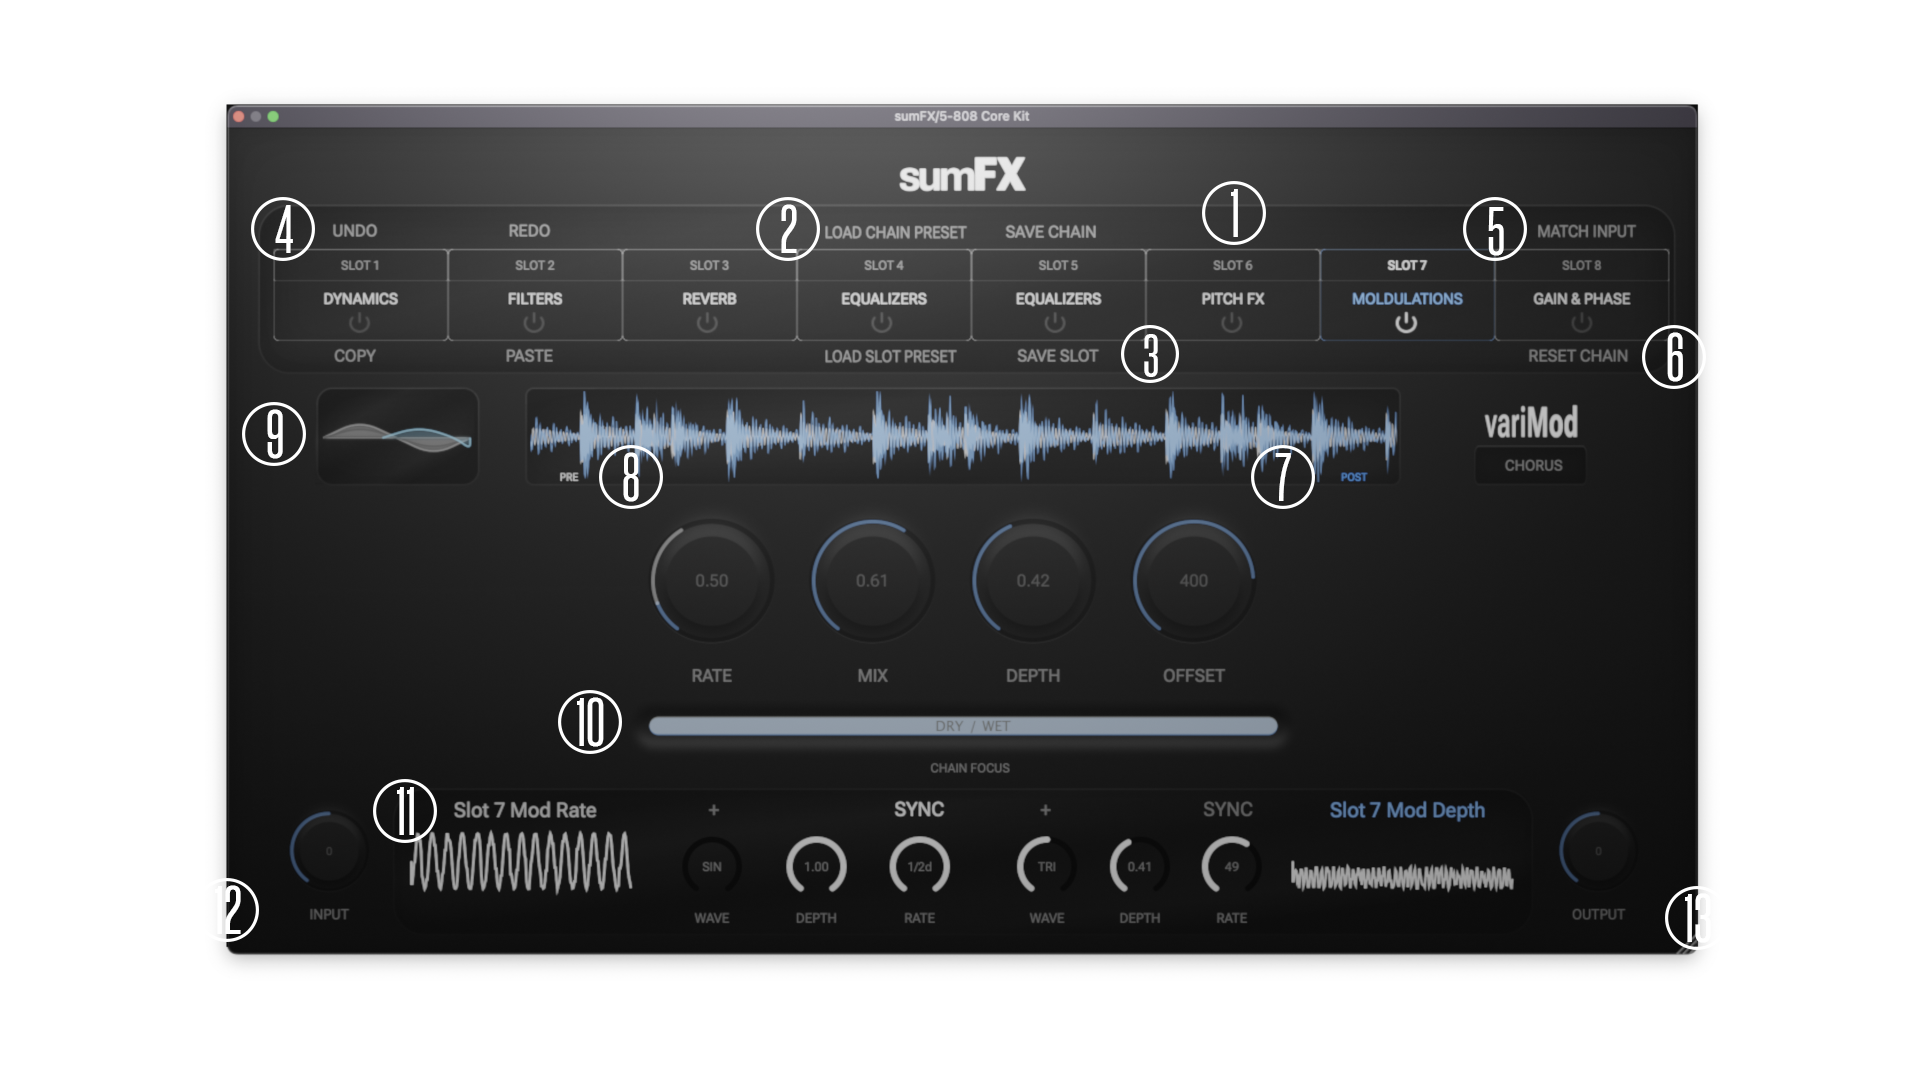
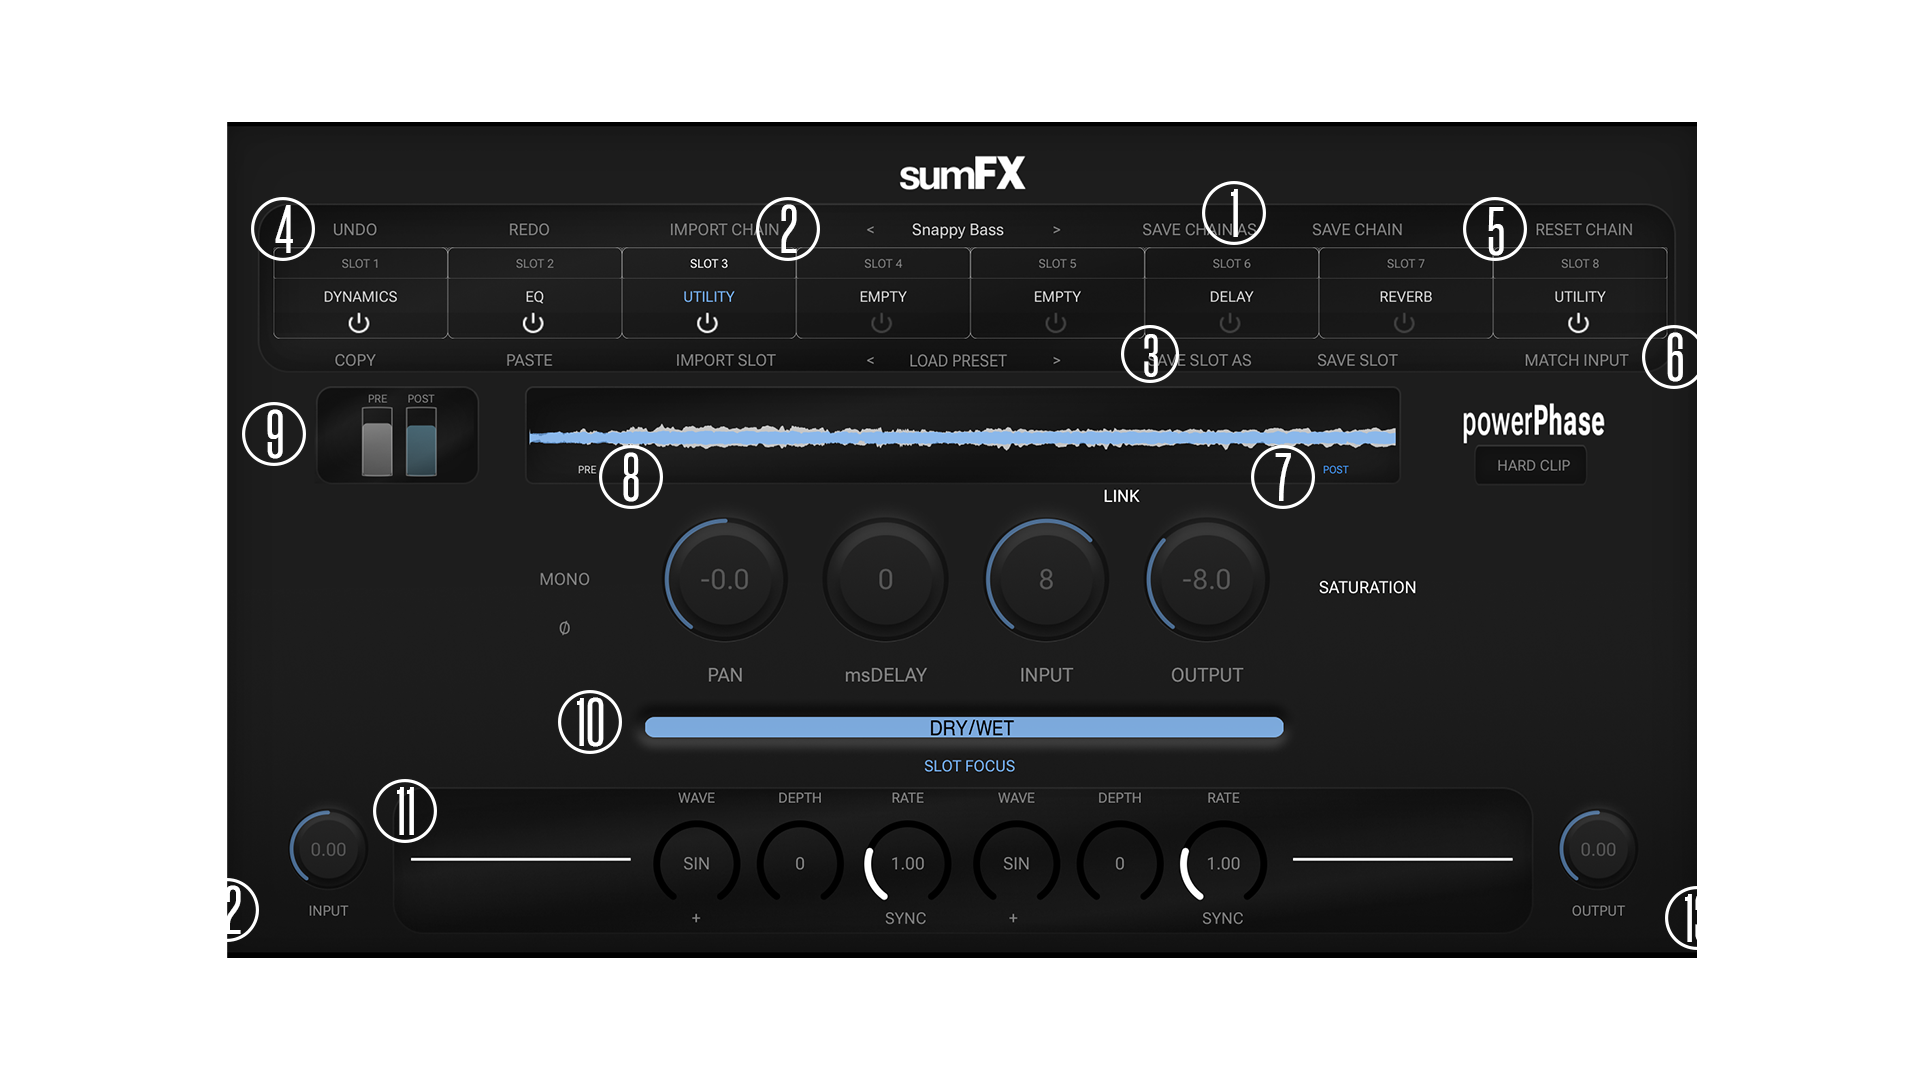
sumFX v1.0.3 & pocketOSC release

diff --git a/Software/sumFXmain.html b/Software/sumFXmain.html
@@ -125,6 +125,20 @@ Packed with <strong>8 high quality FX modules</strong> with oversampling to prev
 Quick tools every engineer need are built right into the interace. Including <strong>reset chain</strong>, <strong>pre/post waveform metering</strong>, <strong>undo/redo</strong>, <strong>chain level input/output</strong> control, and <strong>input match</strong> to auto match your output level to the input level.
 <br><br>
 <strong>50 cross-platform slot & chain presets</strong> are included to get you to any sound you need quickly and we’ve packed in an easy to use pre/post waveform view to help keep you focused on the result of your FX.
+<br><br>
+<strong>Changes from v1.0
+</strong><br>
+New preset load drop down lists for Slot and Chain<br>
+New preset save added next to save as for Slot and Chain<br>
+New preset next/previous for Slot and Chain via “&lt;” and “&gt;” symbols<br>
+New tutorial on first launch <br>
+New Link control for Input/Output gain inside powerPhase (Utility)<br>
+New iPhone (only) view selections for LFO, FX, or FULL view for easier usability<br>
+Refactored LFO/Mode sections for easier selections & more efficient CPU <br>
+Warning added to LFO/Mode to remind users when FX OFF<br>
+Corrected missing check boxes in Audio Setup (Stand alone only)<br>
+Corrected Delay reaction when Link engaged/disabled<br>
+General reliability improvements<br>
 	
 <br><br>
 <strong><a style="color: white;" href="../Manuals/sumFX User Manual v1.pdf">VIEW USER MANUAL</a>
@@ -310,7 +324,9 @@ Each <strong>LFO </strong> offers <strong>5 modes</strong> (sin, square, triangl
 <br>
 <li> Windows 10 or later </li>
 <br>
-<li> Formats: VST3, & AU </li>
+<li> iOS 11 or later </li>
+<br>
+<li> Formats: VST3, AU, & AUv3 </li>
 	
 </ul>
 

diff --git a/Software/Oscmain.html b/Software/Oscmain.html
@@ -81,7 +81,7 @@
 
 
 <div class=prodimg>
-<img src="../images/OSC/Banner_OSC.png" width="80%" height="10%" style="padding-left: 0%; padding-right: auto"/>
+<img src="../images/OSC/Banner_ImageD.jpg" width="100%" height="10%" style="padding-left: 0%; padding-right: auto"/>
 </div>
 	
 	
@@ -95,7 +95,7 @@
 	<li><a href="#ss"> SCREENSHOTS </a> </li>
 	<li><a href="#specs"> SPECIFICATIONS </a> </li>
 </ul>
-	
+		<a href="https://apps.apple.com/us/app/pocketosc/id6450972460"><img src="../images/AppleAppStore.png" width="120px" height="40px" style="right: 10px; padding-top: 8px; position: sticky"></img></a>
 
 </div>
 
@@ -104,7 +104,7 @@
 
 	
 <div class="infoTxt">
-<p style="width: 100%; font-size: 2vw"><strong>Pocket Oscillator</strong> is a <strong>macOS, Windows, and iOS compatible</strong> stereo capable oscilllator. Designed for VST3, AU, AUv3, and stand-alone use. <br><br> <strong>iOS coming soon!</strong></p>
+<p style="width: 100%; font-size: 2vw"><strong>Pocket Oscillator</strong> is a <strong>macOS, Windows, and iOS compatible</strong> stereo capable oscilllator. Designed for VST3, AU, AUv3, and stand-alone use.</p>
 		
 </div>
 
@@ -173,7 +173,7 @@
 <br>
 <li> iOS 15 or later </li>
 <br>
-<li> Formats: Stand-alone, VST2, VST3, & AU </li>
+<li> Formats: Stand-alone, VST2, VST3, AU & AUv3 </li>
 	
 </ul>
 

diff --git a/index.html b/index.html
@@ -92,20 +92,30 @@
 	<button class="btn btn-next" style="z-index: 1">  	&#62; </button>
 	<button class="btn btn-prev" style="z-index: 1">  	&#60; </button>
 	
+
+		<div class="slide">
+	<a href="Software/sumFXmain.html">
+	<img src="images/sumFX/Promo3_sumFX.jpg" alt="" style="z-index: -1;"/></a>
+	</div>
+	
+		<div class="slide">
+	<a href="Software/Oscmain.html">
+		<img src="images/OSC/YT_THUMB_OSC_NEW.png" alt="" style="z-index: -1"/></a>
+	</div>
+	
+<!--
 	<div class="slide">
 	<a href="Software/Scopemain.html">
 		<img src="images/Scope/YT_THUMB_OSCOPE_NEW.jpg" alt="" style="z-index: -1"/></a>
 	</div>
+-->
 		
 	<div class="slide">
 	<a href="Software/Springverbmain.html">
 	<img src="images/springVerb/YT_Thumb_springVerb_iOS.png" alt="" style="z-index: -1"/></a>
 	</div>
 	
-		<div class="slide">
-	<a href="Software/sumFXmain.html">
-	<img src="images/sumFX/sumFX_Banner_iOS.png" alt="" style="z-index: -1;"/></a>
-	</div>
+	
 	
 	<div class="slide">
 	<a href="Software/BFMmain.html">
@@ -152,10 +162,7 @@
 		<img src="images/LP_Banner.png" alt="" style="z-index: -6"/></a>
 	</div>
 	
-		<div class="slide">
-	<a href="Software/Oscmain.html">
-		<img src="images/Osc_Banner.png" alt="" style="z-index: -8"/></a>
-	</div>
+	
 
 
 
